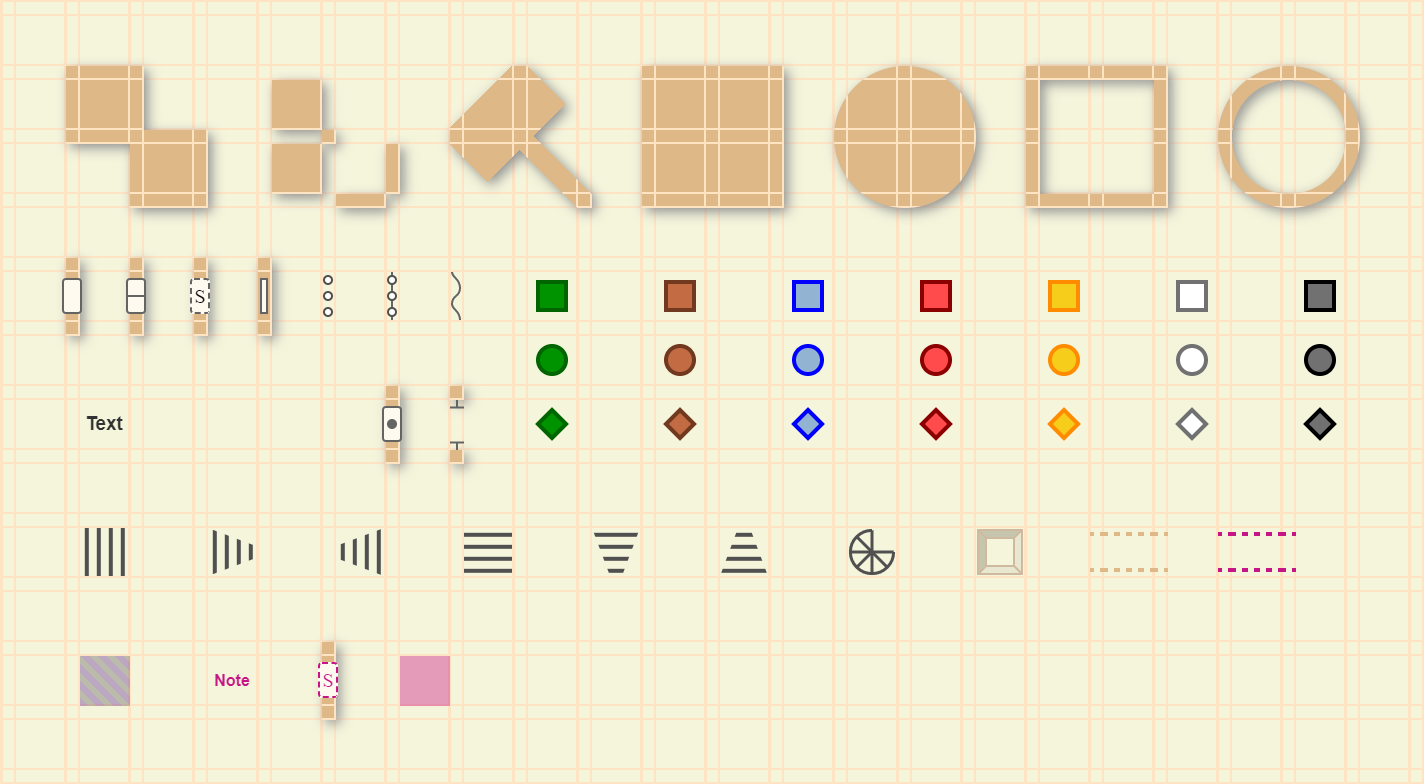
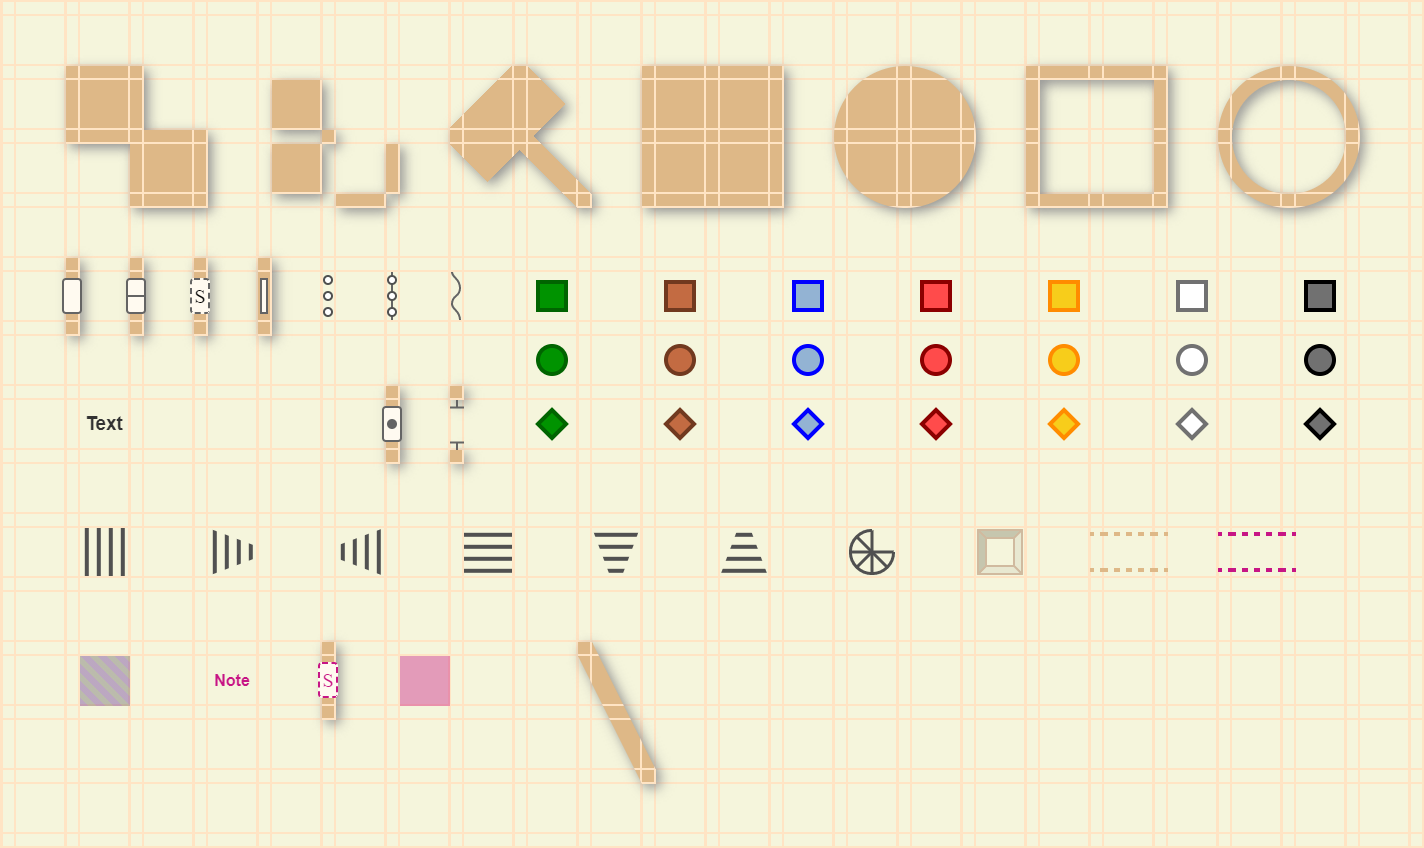
Operational line gesture.

diff --git a/public/app/line_gesture.js b/public/app/line_gesture.js
@@ -33,6 +33,10 @@ class LineGesture extends OvalRoomGesture {
     super.startHover(primaryCell);
   }
 
+  calculateMode_() {
+    return 'toWall';
+  }
+
   continueGesture(cell) {
     if (!this.anchorCell_ || !cell || cell.role != 'corner') {
       return;
@@ -45,124 +49,178 @@ class LineGesture extends OvalRoomGesture {
   addFullCell_(column, row) {
     const cell = state.theMap.getCell(row, column);
     const cellValue = this.cellValues_.get(cell) || {};
-    this.cellValues_.set(cell, cellValue);
-    const keyedValue = {};
-    const mapKey = this.mode_ == 'toWall' ? 'w' : 'f';
-    cellValue[mapKey] = keyedValue;
-    keyedValue.pos = 'full';
+    this.cellValues_.set(cell, {pos: 'full'});
   }
 
   process_() {
-    // Outline:
-    // 1. Prepare a special case for completely vertical or horizontal lines.
-    //    Otherwise, continue to the next step.
-    // 2. There are 4 imaginary lines - from each corner of startCorner to each
-    //    corresponding corner of endCorner.
-    //    Isolate the 2 external lines among these 4, using the relation between
-    //    end and start corners.
-    // 3. For each boundary line of each cell, find its intersection with the
-    //    first line and then the second line. If there are exactly two in-
-    //    bound intersections, the line passes through the cell. If both lines
-    //    don't pass through the cell, skip the cell.
-    // 3. Four each boundary line, among the 4 intersection points, find the
-    //    two at the greatest extent.
-    // 4. If both are not on the line itself, skip the cell.
-    // 5. 
+    this.cellValues_.clear();
+
+    // Add start and end corners as full cells.
     this.addFullCell_(this.startCorner_.column, this.startCorner_.row);
-    if (this.startCorner === this.endCorner) return;
+    if (this.startCorner_ === this.endCorner_) return;
     this.addFullCell_(this.endCorner_.column, this.endCorner_.row);
 
+    // Corner-case for vertical or horizontal lines.
     if (this.startCorner_.row === this.endCorner_.row) {
-      for (let column = this.startCorner_.column + 0.5;
-          column < this.endCorner_.column; column += 0.5) {
+      const step =
+          this.startCorner_.column < this.endCorner_.column ? 0.5 : -0.5;
+      for (let column = this.startCorner_.column + step;
+          column != this.endCorner_.column; column += step) {
         this.addFullCell_(column, this.startCorner_.row);
       }
       return;
     }
     if (this.startCorner_.column === this.endCorner_.column) {
-      for (let row = this.startCorner_.row + 0.5;
-          row < this.endCorner_.row; row += 0.5) {
+      const step = this.startCorner_.row < this.endCorner_.row ? 0.5 : -0.5;
+      for (let row = this.startCorner_.row + step;
+          row != this.endCorner_.row; row += step) {
         this.addFullCell_(this.startCorner_.column, row);
       }
       return;
     }
-/*
-    // This is in rows/cols, not pixels.
-    const {minX, minY, maxX, maxY} =
-        this.calculateMinMaxCellPositions_(includeBoundaries);
-    const [centerX, centerY] =
-        [minX + (maxX - minX) / 2, minY + (maxY - minY) / 2];
 
-    const topLeftCell = state.theMap.cells.get(CellMap.cellKey(minY, minX));
-    const bottomRightCell = state.theMap.cells.get(CellMap.cellKey(maxY, maxX));
-    const topLeftPoint = {
-      x: topLeftCell.offsetLeft,
-      y: topLeftCell.offsetTop,
+    this.processAngledLine_();
+  }
+
+  verticalLineIntersection_(verticalLineX, minY, maxY, x1, y1, x2, y2) {
+    // https://en.wikipedia.org/wiki/Line%E2%80%93line_intersection
+    const [x3, y3] = [verticalLineX, minY];
+    const [x4, y4] = [verticalLineX, maxY];
+    const intersectionY =
+        ((x1 * y2 - y1 * x2) * (y3 - y4) - (y1 - y2) * (x3 * y4 - y3 * x4)) /
+        ((x1 - x2) * (y3 - y4) - (y1 - y2) * (x3 - x4));
+    return (intersectionY < minY || intersectionY > maxY) ?
+        null : {x: verticalLineX, y: intersectionY};
+  }
+
+  horizontalLineIntersection_(horizontalLineY, minX, maxX, x1, y1, x2, y2) {
+    // https://en.wikipedia.org/wiki/Line%E2%80%93line_intersection
+    const [x3, y3] = [minX, horizontalLineY];
+    const [x4, y4] = [maxX, horizontalLineY];
+    const intersectionX =
+        ((x1 * y2 - y1 * x2) * (x3 - x4) - (x1 - x2) * (x3 * y4 - y3 * x4)) /
+        ((x1 - x2) * (y3 - y4) - (y1 - y2) * (x3 - x4));
+    return (intersectionX < minX || intersectionX > maxX) ?
+        null : {x: intersectionX, y: horizontalLineY};
+  }
+
+  calculateExternalLines_() {
+    const rowBefore = this.startCorner_.row < this.endCorner_.row;
+    const columnBefore = this.startCorner_.column < this.endCorner_.column;
+    const [start, end] = [this.startCorner_, this.endCorner_].map(cell => ({
+      left: cell.offsetLeft,
+      right: cell.offsetLeft + cell.width,
+      top: cell.offsetTop,
+      bottom: cell.offsetTop + cell.height,
+    }));
+    return {
+      line1: {
+        x1: rowBefore ? start.left : start.right,
+        y1: columnBefore ? start.bottom : start.top,
+        x2: rowBefore ? end.left : end.right,
+        y2: columnBefore ? end.bottom : end.top,
+      },
+      line2: {
+        x1: rowBefore ? start.right : start.left,
+        y1: columnBefore ? start.top : start.bottom,
+        x2: rowBefore ? end.right : end.left,
+        y2: columnBefore ? end.top : end.bottom,
+      },
     };
-    const bottomRightPoint = {
-      x: bottomRightCell.offsetLeft + bottomRightCell.width,
-      y: bottomRightCell.offsetTop + bottomRightCell.height,
-    };
-    const centerPoint = {
-      x: topLeftPoint.x + (bottomRightPoint.x - topLeftPoint.x) / 2,
-      y: topLeftPoint.y + (bottomRightPoint.y - topLeftPoint.y) / 2,
-    };
-    const axes = {
-      x: bottomRightPoint.x - topLeftPoint.x,
-      y: bottomRightPoint.y - topLeftPoint.y,
-    };
-    const check = (x, y) => this.ellipseEquation_(
-        x, y, centerPoint.x, centerPoint.y, axes.x / 2, axes.y / 2);
+  }
+
+  processAngledLine_() {
+    // Outline:
+    // 1. There are 4 imaginary lines - from each corner of startCorner to each
+    //    corresponding corner of endCorner.
+    //    Isolate the 2 external lines among these 4, using the relation between
+    //    end and start corners.
+    // 2. For each one of the four boundary line of each cell, find its
+    //    intersection with the first line and then the second line. If there's
+    //    at least one intersection, add a clip to the cell of a polygon using
+    //    the 4 endpoints of the two external lines.
+    const externalLines = this.calculateExternalLines_();
+
     this.cells_.forEach(cell => {
-      const cellValue = this.cellValues_.get(cell) || {};
-      this.cellValues_.set(cell, cellValue);
-      const keyedValue = {};
-      cellValue[mapKey] = keyedValue;
-      if ((this.mode_ == 'toWall' &&
-           this.hasWallContentWithoutClipping_(cell)) ||
-          (this.mode_ == 'toFloor' &&
-           !this.hasWallContentWithoutClipping_(cell))) {
-        keyedValue.pos = 'outside';
+      // Skip the endpoint corners.
+      if (cell == this.startCorner_ || cell == this.endCorner_) return;
+      // Skip any full walls in-between.
+      if (cell.hasLayerContent(ct.walls) &&
+          !cell.getLayerContent(ct.walls)[ck.clipExclude] &&
+          !cell.getLayerContent(ct.walls)[ck.clipInclude]) {
         return;
       }
-      const closestPixel = {
-        x: clamp(cell.offsetLeft, centerPoint.x, cell.offsetLeft + cell.width),
-        y: clamp(cell.offsetTop, centerPoint.y, cell.offsetTop + cell.height),
-      };
-      if (check(closestPixel.x, closestPixel.y) > 1) {
-        keyedValue.pos = 'outside';
-        return;
+      const [left, right, top, bottom] = [
+        cell.offsetLeft,
+        cell.offsetLeft + cell.width,
+        cell.offsetTop,
+        cell.offsetTop + cell.height,
+      ];
+      let hasIntersections = false;
+      [externalLines.line1, externalLines.line2].forEach(
+          (externalLine, index) => {
+            if (hasIntersections) return;
+            [top, bottom].forEach(horizontalLineY => {
+              if (hasIntersections) return;
+              const intersection = this.horizontalLineIntersection_(
+                  horizontalLineY,
+                  left,
+                  right,
+                  externalLine.x1, externalLine.y1,
+                  externalLine.x2, externalLine.y2);
+              if (intersection) hasIntersections = true;
+            });
+            [left, right].forEach(verticalLineX => {
+              if (hasIntersections) return;
+              const intersection = this.verticalLineIntersection_(
+                  verticalLineX,
+                  top,
+                  bottom,
+                  externalLine.x1, externalLine.y1,
+                  externalLine.x2, externalLine.y2);
+              if (intersection) hasIntersections = true;
+            });
+      });
+      if (hasIntersections) {
+        const cellValue = this.cellValues_.get(cell) || {};
+        this.cellValues_.set(cell, {
+          pos : 'intersects',
+          polygon: [
+            `${externalLines.line1.x1 - left},${externalLines.line1.y1 - top}`,
+            `${externalLines.line1.x2 - left},${externalLines.line1.y2 - top}`,
+            `${externalLines.line2.x2 - left},${externalLines.line2.y2 - top}`,
+            `${externalLines.line2.x1 - left},${externalLines.line2.y1 - top}`,
+          ].join(';'),
+        });
       }
-      const furthestPixel = {
-        x: cell.offsetLeft + (cell.column >= centerX ? cell.width : 0),
-        y: cell.offsetTop + (cell.row >= centerY ? cell.height : 0),
-      };
-      if (check(furthestPixel.x, furthestPixel.y) < 1) {
-        keyedValue.pos = 'inside';
-        return;
-      }
-      keyedValue.rx = axes.x / 2;
-      keyedValue.ry = axes.y / 2;
-      keyedValue.cx = centerPoint.x;
-      keyedValue.cy = centerPoint.y;
     });
-    */
   }
 
   calculateContent_(cell) {
     const val = this.cellValues_.get(cell);
-    if (val.w && val.w.pos == 'full') {
+    if (val.pos == 'full') {
       return this.wallContent_;
     }
-    if (val.f && val.f.pos == 'full') {
-      return null;
+    if (val.pos == 'intersects') {
+      const result = {
+        [ck.kind]: ct.walls.smooth.id,
+        [ck.variation]: ct.walls.smooth.oval.id,
+      };
+      let resultString = ''
+      const existingContent = cell.getLayerContent(ct.walls);
+      if (existingContent && existingContent[ck.clipInclude]) {
+        resultString += existingContent[ck.clipInclude] + '|';
+      }
+      if (existingContent && existingContent[ck.clipExclude]) {
+        result[ck.clipExclude] = existingContent[ck.clipExclude];
+      }
+      resultString += 'p:' + val.polygon;
+      result[ck.clipInclude] = resultString;
+      return result;
     }
   }
 
   shouldApplyContentTo_(cell) {
-    const val = this.cellValues_.get(cell);
-    return val &&
-        ((val.w && val.w.pos == 'full') ||
-        (val.f && val.f.pos == 'full'));
+    return this.cellValues_.has(cell);
   }
 }

diff --git a/public/app/menu.js b/public/app/menu.js
@@ -305,7 +305,7 @@ class Menu {
         `url("${state.currentTheme.menuIconFile}")`;
     item.element.style.backgroundPosition =
         `-${x * 2 * scale}px -${y * 2 * scale}px`;
-    item.element.style.backgroundSize = `${1424 * scale}px ${784 * scale}px`;
+    item.element.style.backgroundSize = `${1424 * scale}px ${848 * scale}px`;
   }
 
   updateCellsItem_(item, cells, deferredSvg) {
@@ -1374,6 +1374,19 @@ class Menu {
                   ct.walls, ct.walls.smooth, ct.walls.smooth.angled); },
             },
             {
+              name: 'Line',
+              type: 'tool',
+              presentation: 'icon_map',
+              tip: 'Drag when placing to resize.',
+              iconMapRect: {
+                x: 272,
+                y: 319,
+                size: 72,
+              },
+              enabledInReadonlyMode: false,
+              callback: () => { state.gesture = new LineGesture(); },
+            },
+            {
               name: 'Rectangle',
               type: 'tool',
               presentation: 'icon_map',
@@ -2032,19 +2045,6 @@ class Menu {
             materialIcon: 'create_new_folder',
             enabledInReadonlyMode: true,
             callback: () => { window.open('.', '_self'); },
-          },
-          {
-            name: 'Line',
-            type: 'tool',
-            presentation: 'icon_map',
-            tip: 'Drag when placing to resize.',
-            iconMapRect: {
-              x: 416,
-              y: 32,
-              size: 72,
-            },
-            enabledInReadonlyMode: false,
-            callback: () => { state.gesture = new LineGesture(); },
           },
           {
             name: 'Image for tile (1,1)',

diff --git a/public/app/cell.js b/public/app/cell.js
@@ -474,6 +474,9 @@ class Cell {
             clipShape.substr(2).split(',').map(s => Number.parseFloat(s));
         return `<ellipse rx='${rx}' ry='${ry}' cx='${cx}' cy='${cy}' ` +
             `fill='${color}' />`;
+      case 'p':
+        const points = clipShape.substr(2).replace(/;/g, ' ');
+        return `<polygon points='${points}' fill='${color}' />`;
     }
   }
 
